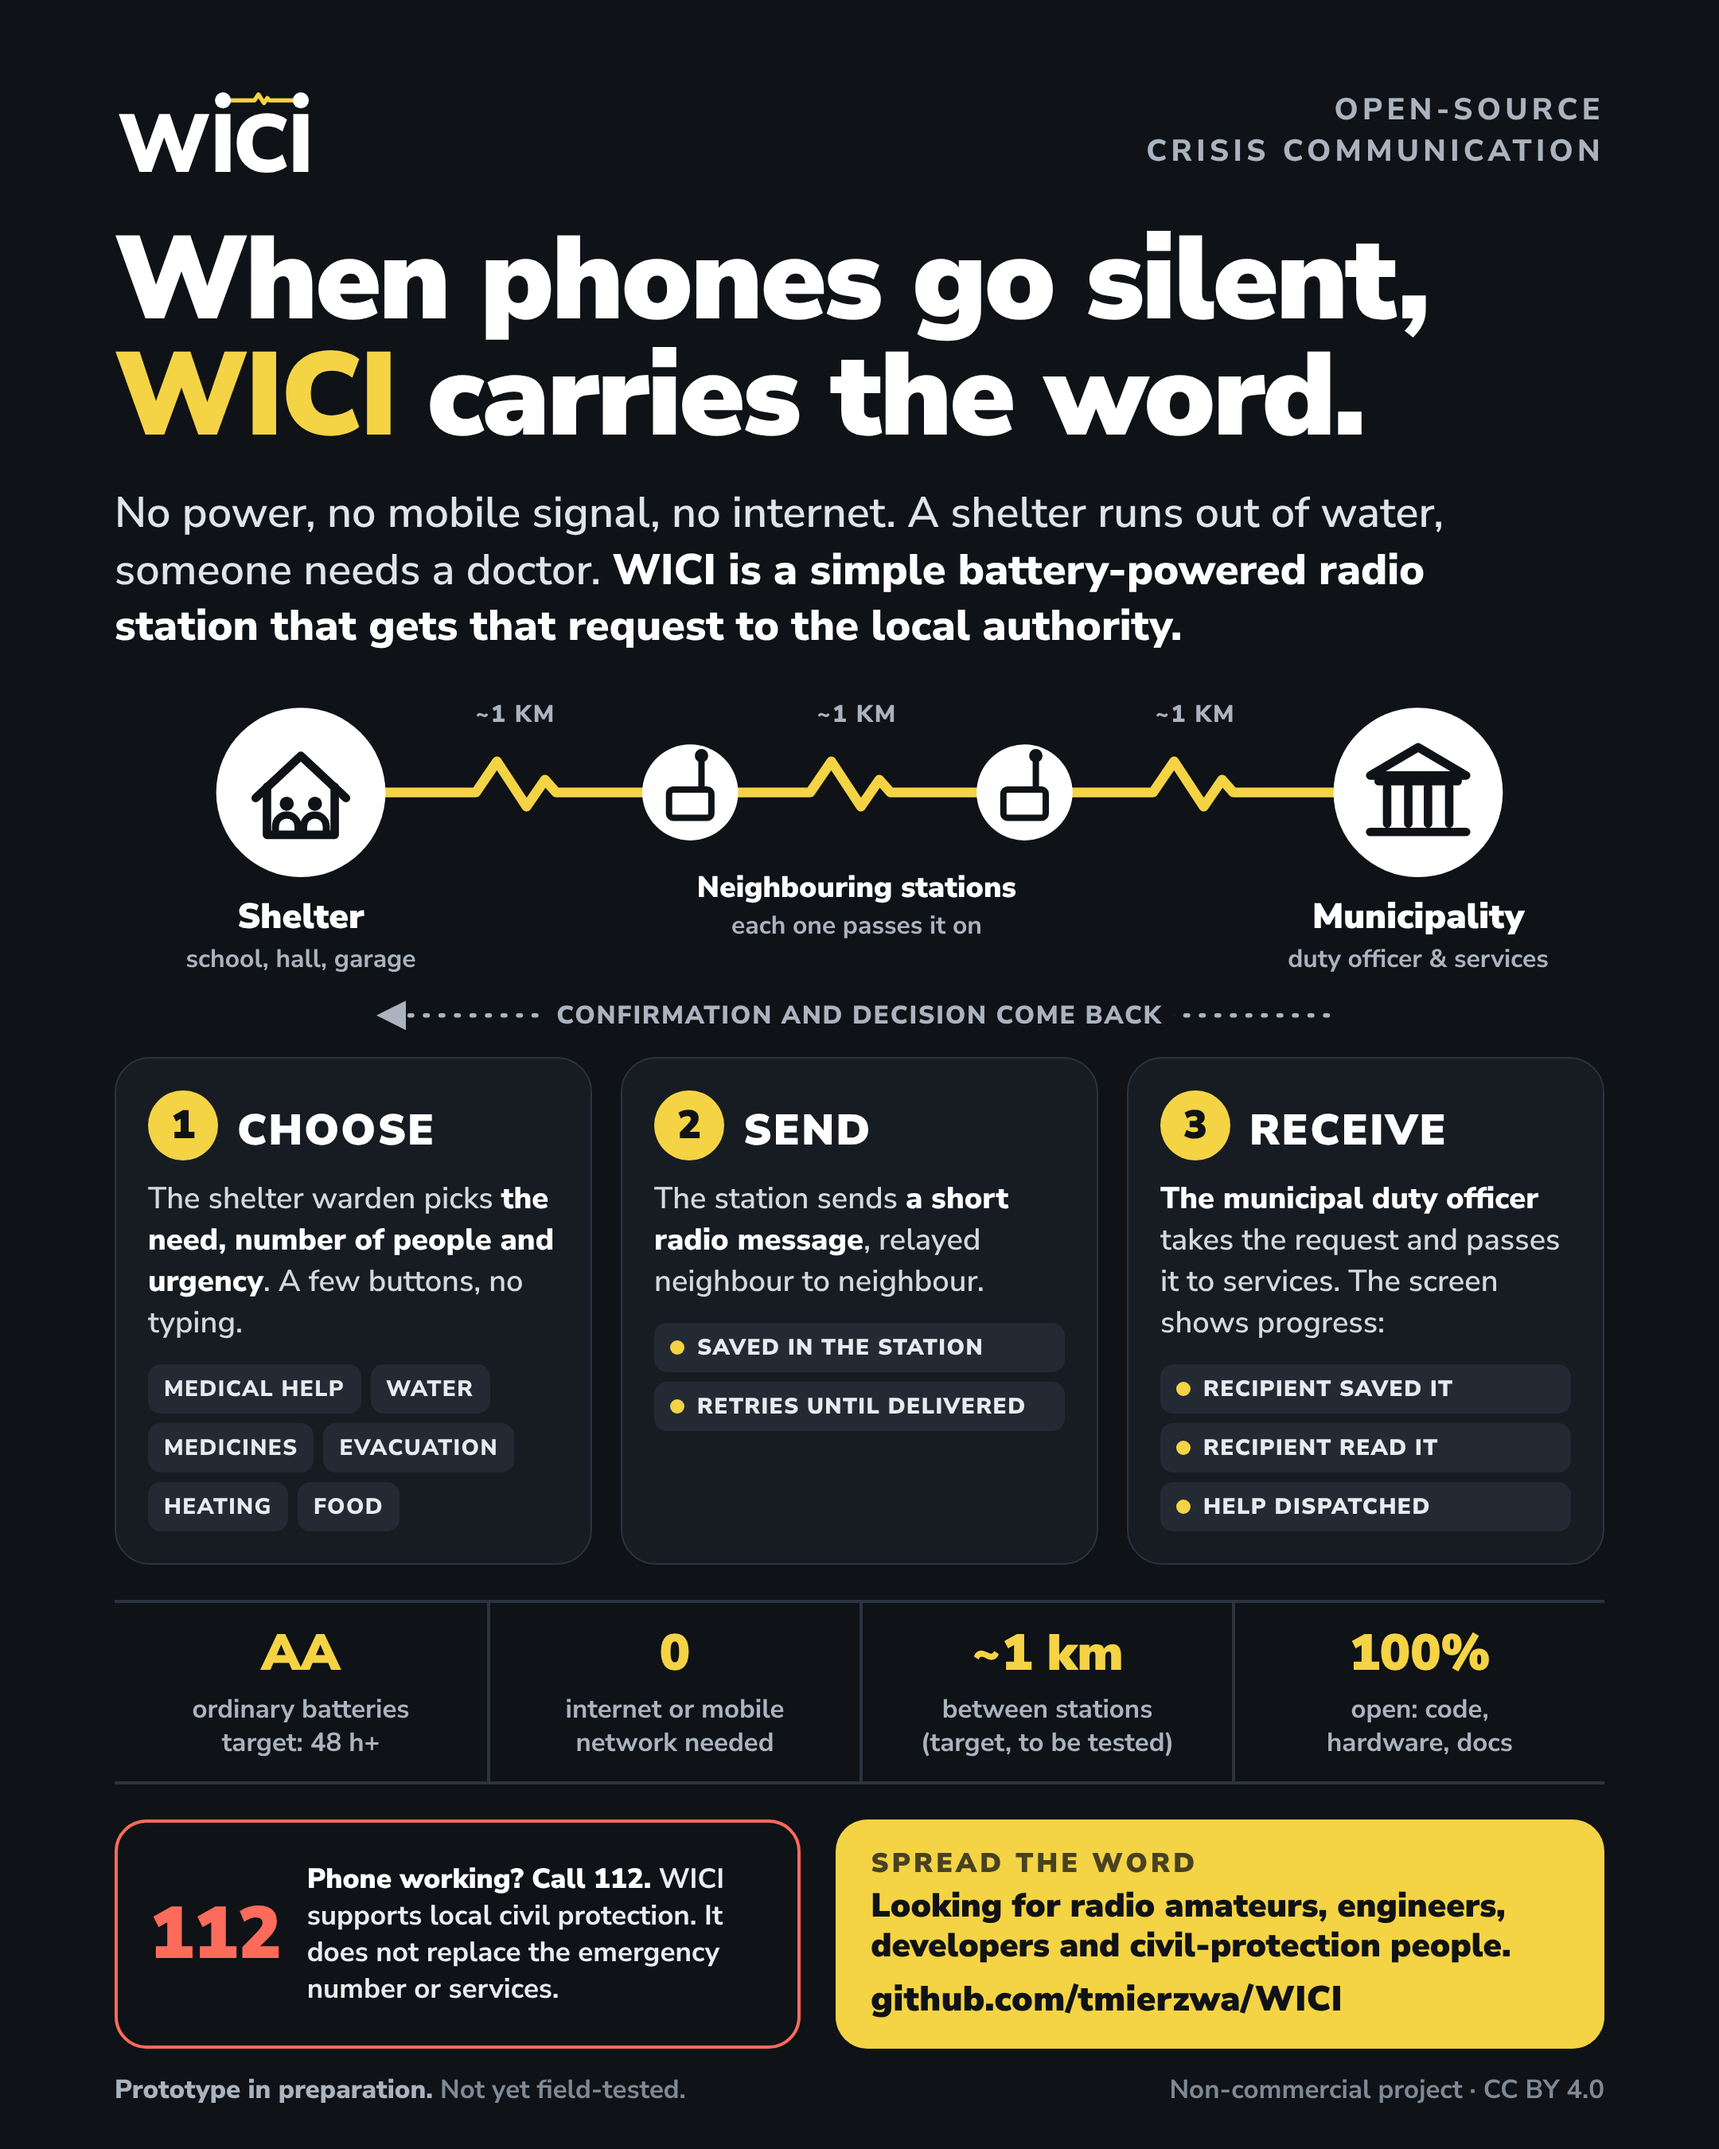
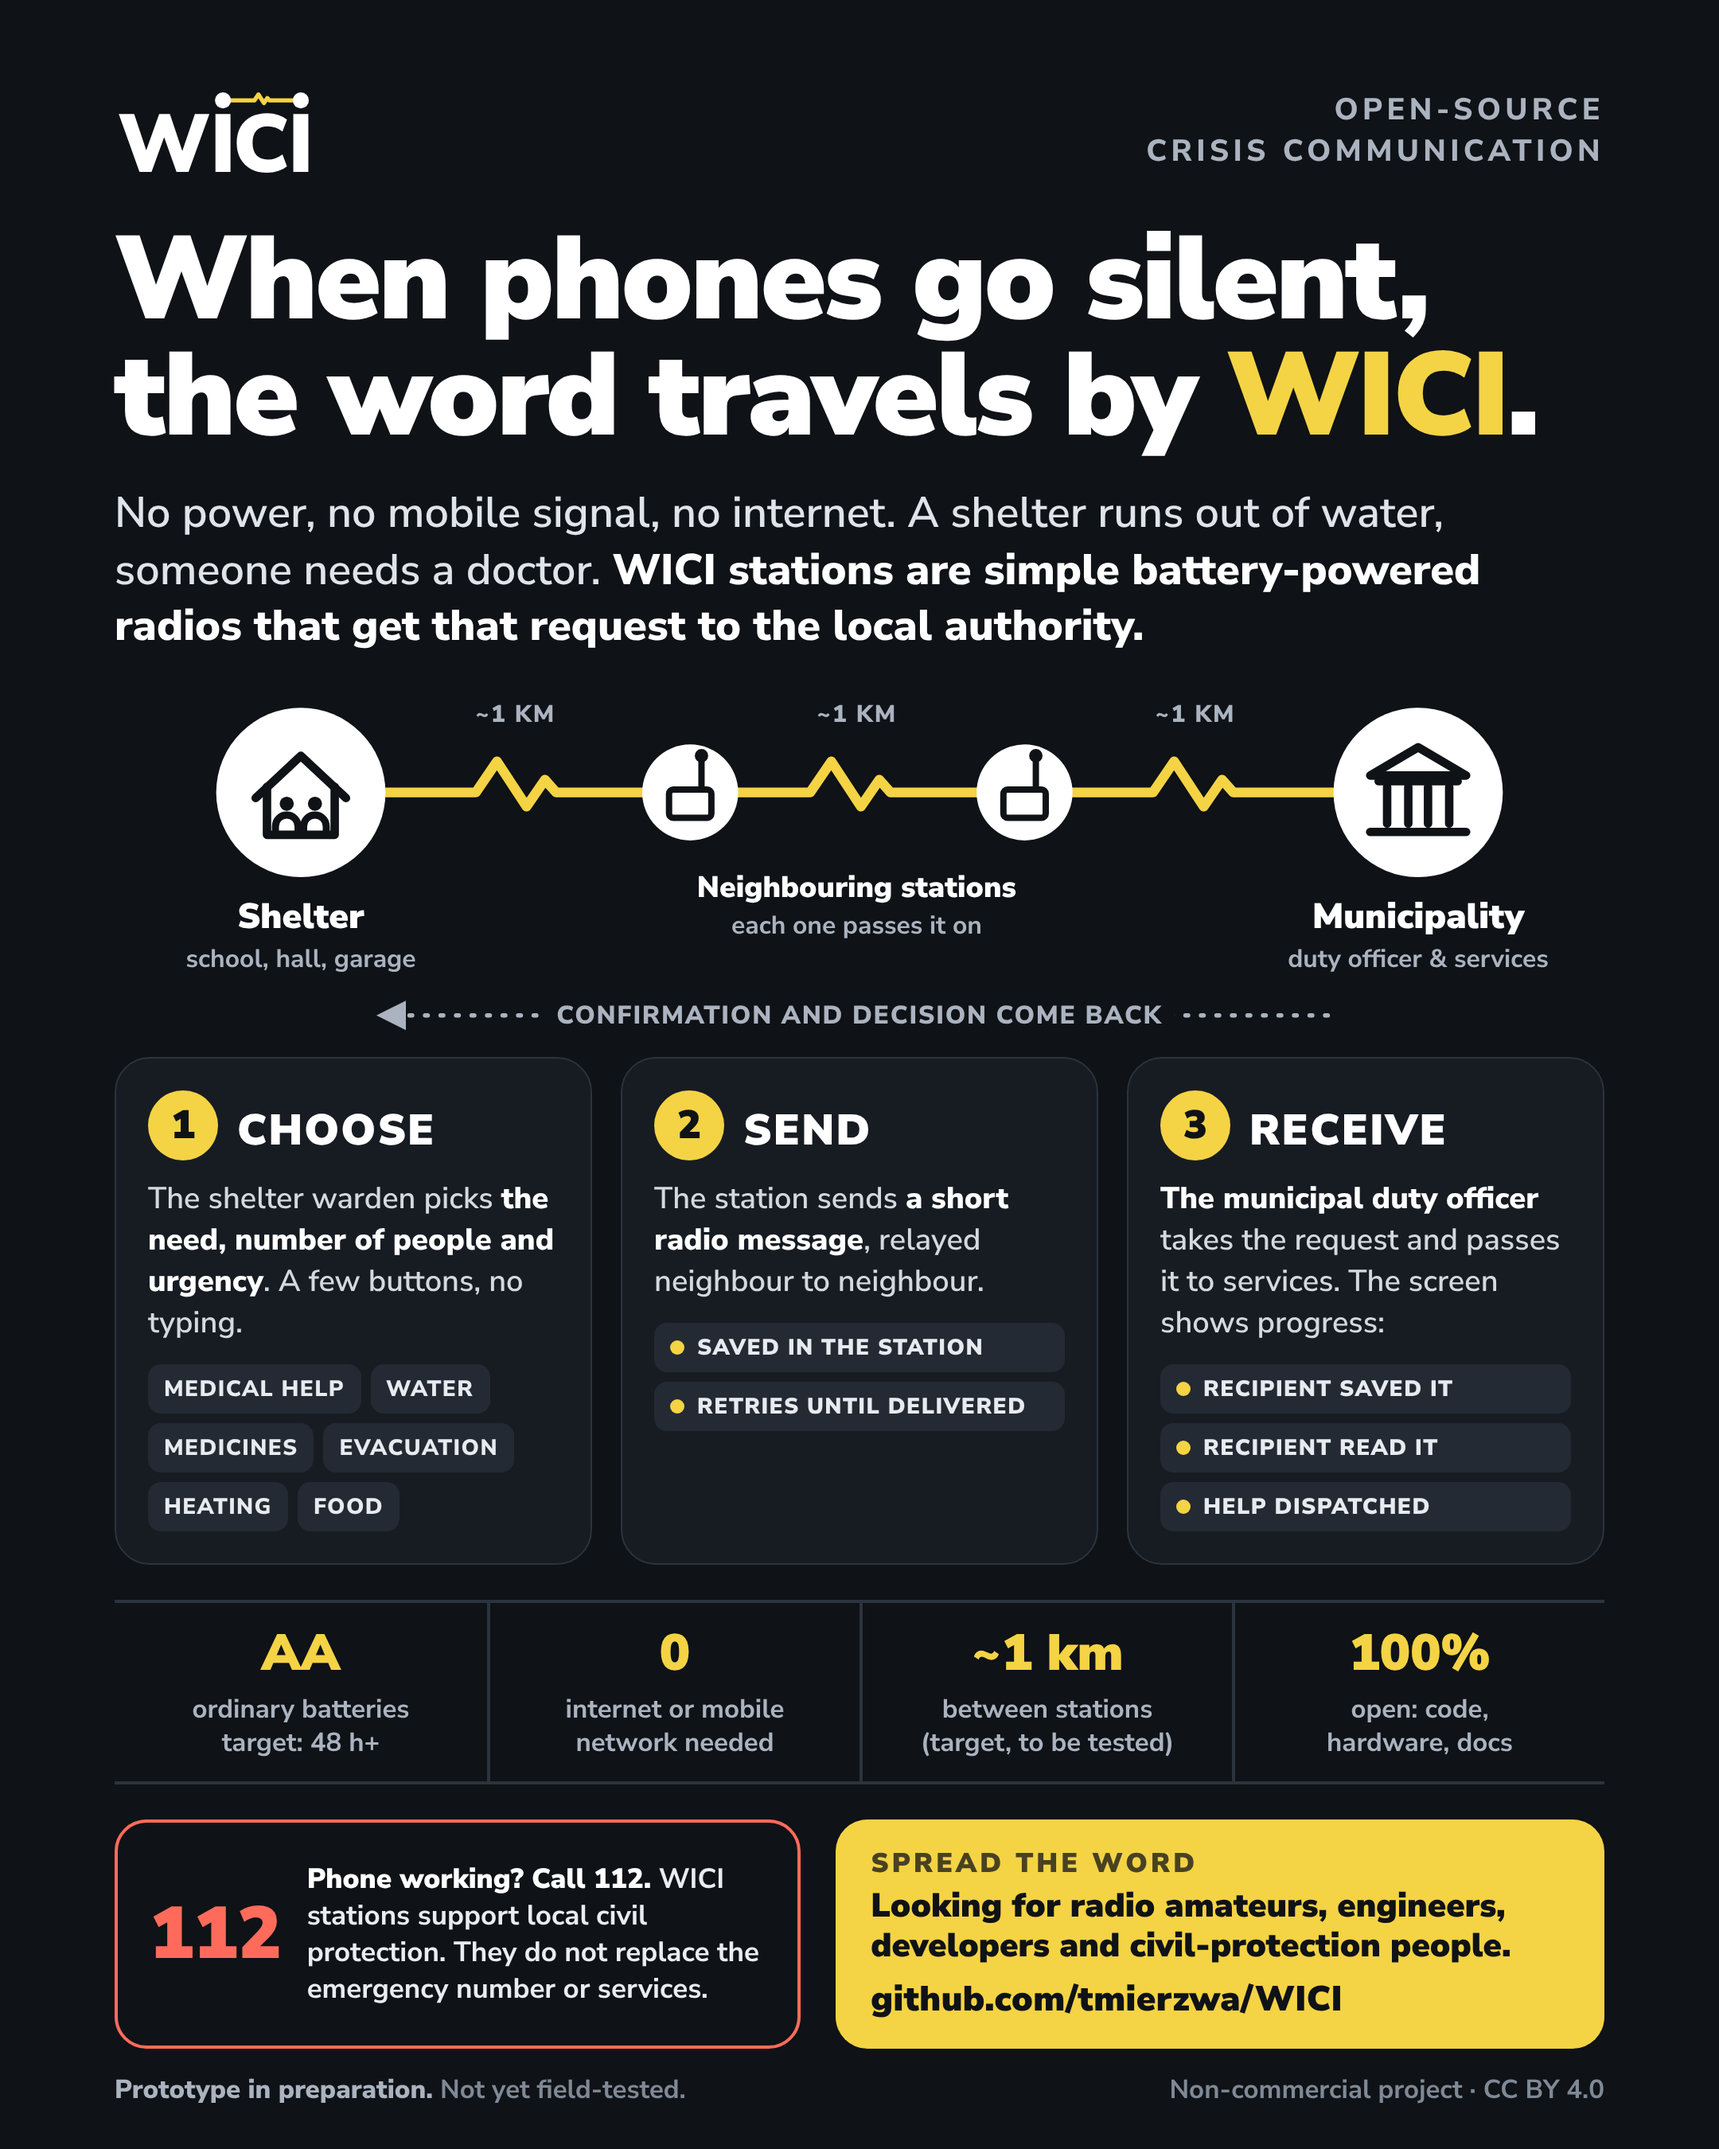
Infographic: treat WICI as plural
Claude-Session: https://claude.ai/code/session_01WCkYsu6pvnXAe7WXZ7mzF5

diff --git a/media/infografika/infografika.html b/media/infografika/infografika.html
@@ -155,7 +155,7 @@ pl:{
  s3h:"Odbierz", s3:"<b>Dyżurny gminy</b> przyjmuje zgłoszenie i przekazuje służbom. Ekran pokazuje, co się dzieje:",
  status:["Odbiorca zapisał","Odbiorca przeczytał","Pomoc skierowana"],
  facts:[["AA","zwykłe baterie<br>cel: min. 48 h pracy"],["0","internetu i sieci<br>komórkowej"],["~1 km","między stacjami<br>(cel do sprawdzenia)"],["100%","otwarte: kod,<br>schematy, dokumenty"]],
- warn:"<b>Działa telefon? Dzwoń 112.</b> WICI uzupełnia system ochrony ludności, nie zastępuje numeru alarmowego ani służb.",
+ warn:"<b>Działa telefon? Dzwoń 112.</b> Stacje WICI uzupełniają system ochrony ludności, nie zastępują numeru alarmowego ani służb.",
  ctak:"Rozsyłamy wici",
  ctah:"Szukamy krótkofalowców, elektroników, programistów i ludzi ze służb i gmin.",
  foot1:"<b>Prototyp w przygotowaniu.</b> Stacji jeszcze nie sprawdzono w terenie.",
@@ -163,8 +163,8 @@ pl:{
 },
 en:{
  tag:"Open-source<br>crisis communication",
- h1:"When phones go silent,<br><em>WICI</em> carries the word.",
- lead:"No power, no mobile signal, no internet. A shelter runs out of water, someone needs a doctor. <b>WICI is a simple battery-powered radio station that gets that request to the local authority.</b>",
+ h1:"When phones go silent,<br>the word travels by <em>WICI</em>.",
+ lead:"No power, no mobile signal, no internet. A shelter runs out of water, someone needs a doctor. <b>WICI stations are simple battery-powered radios that get that request to the local authority.</b>",
  hop:"~1 KM",
  n1:"Shelter", n1s:"school, hall, garage",
  n2:"Neighbouring stations", n2s:"each one passes it on",
@@ -177,7 +177,7 @@ en:{
  s3h:"Receive", s3:"<b>The municipal duty officer</b> takes the request and passes it to services. The screen shows progress:",
  status:["Recipient saved it","Recipient read it","Help dispatched"],
  facts:[["AA","ordinary batteries<br>target: 48 h+"],["0","internet or mobile<br>network needed"],["~1 km","between stations<br>(target, to be tested)"],["100%","open: code,<br>hardware, docs"]],
- warn:"<b>Phone working? Call 112.</b> WICI supports local civil protection. It does not replace the emergency number or services.",
+ warn:"<b>Phone working? Call 112.</b> WICI stations support local civil protection. They do not replace the emergency number or services.",
  ctak:"Spread the word",
  ctah:"Looking for radio amateurs, engineers, developers and civil-protection people.",
  foot1:"<b>Prototype in preparation.</b> Not yet field-tested.",
